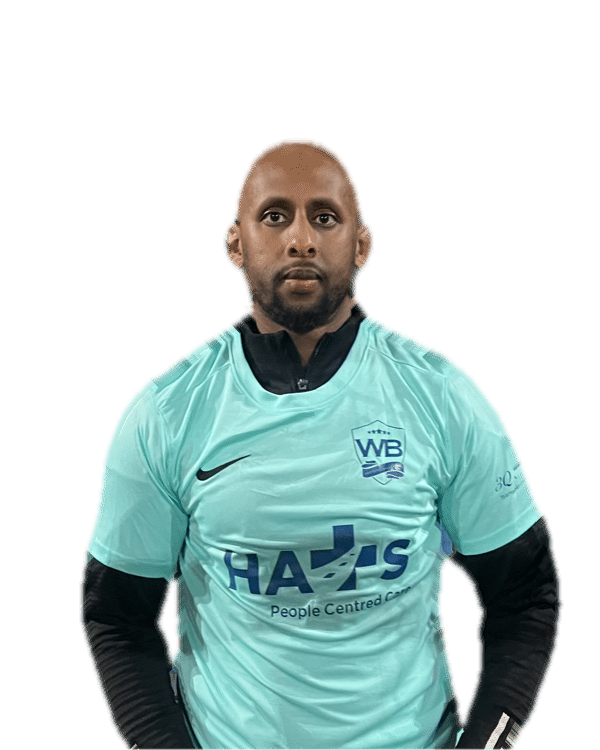
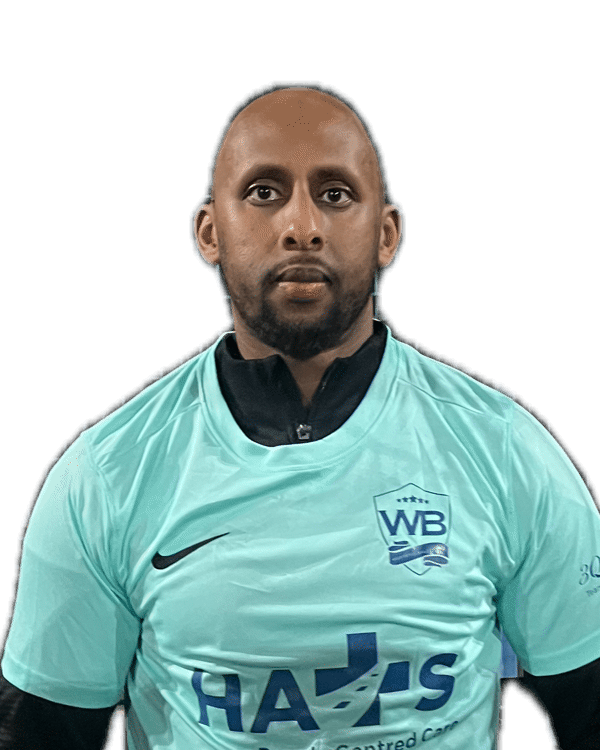
squad: back to original black design and photos

diff --git a/squad/squad.css b/squad/squad.css
@@ -1,6 +1,5 @@
 /* Squad page only. Uses the site tokens and fonts from assets/issue.css (loaded first). */
-.sq{max-width:var(--page);margin:0 auto;padding:0 var(--gutter) var(--s6);
-  --squad-card-bg:linear-gradient(90deg,#ECEDEF 0%,#C3C6CB 100%)} /* card and profile background; the one line to change for another theme */
+.sq{max-width:var(--page);margin:0 auto;padding:0 var(--gutter) var(--s6)}
 .sq-head{padding-top:var(--s4)}
 .sq-head h1{margin-top:var(--s2);font-family:var(--serif);font-weight:700;font-size:40px;line-height:1.04;letter-spacing:-.025em}
 .sq-head .standfirst{margin-top:var(--s2);max-width:36em}
@@ -12,16 +11,17 @@
 .sq-group h2 small{font-size:12px;color:var(--wb-text)}
 .sq-grid{list-style:none;display:grid;grid-template-columns:minmax(0,1fr);gap:var(--s2);margin-top:var(--s2)}
 
-/* ---------- card: light grey gradient, cut-out bottom-right with a soft shadow, name left, orange base line ---------- */
+/* ---------- card: charcoal gradient, cut-out bottom-right, name left, orange base line ---------- */
 .sq-card{position:relative;isolation:isolate;display:flex;align-items:flex-end;min-height:240px;overflow:hidden;padding:var(--s3) var(--s2) var(--s2);
-  background:var(--squad-card-bg);
-  border-bottom:3px solid var(--wb);color:#111;text-decoration:none;touch-action:manipulation;-webkit-tap-highlight-color:transparent}
-.sq-img{position:absolute;z-index:-2;right:4%;bottom:0;height:100%;width:auto;max-width:none;object-fit:contain;transform-origin:50% 100%;transition:transform .4s var(--ease);
-  filter:drop-shadow(8px 4px 14px rgba(0,0,0,.25))}
+  background:radial-gradient(120% 90% at 85% 100%,color-mix(in srgb,var(--wb) 16%,transparent),transparent 60%),linear-gradient(160deg,var(--ink-2) 0%,var(--ink) 55%,var(--bezel) 100%);
+  border-bottom:3px solid var(--wb);color:var(--on-ink);text-decoration:none;touch-action:manipulation;-webkit-tap-highlight-color:transparent}
+.sq-img{position:absolute;z-index:-2;right:-6%;bottom:0;height:100%;width:auto;max-width:none;transform-origin:50% 100%;transition:transform .4s var(--ease);
+  -webkit-mask-image:linear-gradient(to right,transparent 0,#000 22%);mask-image:linear-gradient(to right,transparent 0,#000 22%)} /* softens shirts cut by the photo's left edge */
+.sq-card::after{content:"";position:absolute;z-index:-1;left:0;right:0;bottom:0;height:45%;background:linear-gradient(to top,var(--bezel) 0%,color-mix(in srgb,var(--bezel) 70%,transparent) 35%,transparent 100%);pointer-events:none}
 .sq-txt{display:flex;flex-direction:column;max-width:60%}
-.sq-name{font-weight:800;font-stretch:87.5%;font-size:32px;line-height:.95;letter-spacing:-.01em;text-transform:uppercase;overflow-wrap:anywhere}
-.sq-pos{margin-top:var(--s1);font-size:12px;font-weight:800;font-stretch:87.5%;letter-spacing:.12em;text-transform:uppercase;color:var(--wb-text)}
-.sq-born{margin-top:var(--half);font-size:14px;line-height:1.3;color:#3C3C3C}
+.sq-name{font-weight:800;font-stretch:87.5%;font-size:32px;line-height:.95;letter-spacing:-.01em;text-transform:uppercase;overflow-wrap:anywhere;text-shadow:0 2px 12px rgba(0,0,0,.45)}
+.sq-pos{margin-top:var(--s1);font-size:12px;font-weight:800;font-stretch:87.5%;letter-spacing:.12em;text-transform:uppercase;color:var(--wb)}
+.sq-born{margin-top:var(--half);font-size:14px;line-height:1.3;color:var(--on-ink-2)}
 .sq-card:focus-visible{outline:3px solid var(--wb);outline-offset:3px}
 .sq-card:active .sq-img{transform:scale(1.02)}
 
@@ -29,14 +29,15 @@
 .sq-profile{padding-top:var(--s3)}
 .sq-back{display:inline-flex;align-items:center;min-height:44px;font-size:12px;font-weight:800;font-stretch:87.5%;letter-spacing:.12em;text-transform:uppercase;text-decoration:none;color:var(--wb-text)}
 .sq-hero{position:relative;isolation:isolate;display:grid;grid-template-columns:minmax(0,1fr) minmax(0,1fr);align-items:end;min-height:380px;margin:var(--s1) calc(var(--gutter) * -1) 0;overflow:hidden;
-  background:var(--squad-card-bg);
-  border-bottom:3px solid var(--wb);color:#111}
-.sq-hero-img{position:absolute;z-index:-2;right:4%;bottom:0;height:100%;width:auto;max-width:none;object-fit:contain;
-  filter:drop-shadow(8px 4px 14px rgba(0,0,0,.25))}
+  background:radial-gradient(90% 80% at 80% 100%,color-mix(in srgb,var(--wb) 20%,transparent),transparent 65%),linear-gradient(160deg,var(--ink-2) 0%,var(--ink) 55%,var(--bezel) 100%);
+  border-bottom:3px solid var(--wb);color:var(--on-ink)}
+.sq-hero::after{content:"";position:absolute;z-index:-1;left:0;right:0;bottom:0;height:40%;background:linear-gradient(to top,var(--bezel),transparent);pointer-events:none}
+.sq-hero-img{grid-column:2;grid-row:1;z-index:-2;justify-self:end;align-self:end;height:380px;width:auto;max-width:none;margin-right:-12%;
+  -webkit-mask-image:linear-gradient(to right,transparent 0,#000 18%);mask-image:linear-gradient(to right,transparent 0,#000 18%)}
 .sq-hero-txt{grid-column:1;grid-row:1;position:relative;z-index:1;padding:var(--s4) 0 var(--s3) var(--gutter);width:150%} /* the name may run over the photo */
-.sq-hero-kick{font-size:12px;font-weight:800;font-stretch:87.5%;letter-spacing:.12em;text-transform:uppercase;color:var(--wb-text)}
-.sq-hero h1{margin-top:var(--s1);font-weight:800;font-stretch:87.5%;font-size:clamp(40px,12vw,96px);line-height:.9;letter-spacing:-.015em;text-transform:uppercase;overflow-wrap:anywhere;outline:none}
-.sq-hero-born{margin-top:var(--s1);font-size:15px;color:#3C3C3C}
+.sq-hero-kick{font-size:12px;font-weight:800;font-stretch:87.5%;letter-spacing:.12em;text-transform:uppercase;color:var(--wb)}
+.sq-hero h1{margin-top:var(--s1);font-weight:800;font-stretch:87.5%;font-size:clamp(40px,12vw,96px);line-height:.9;letter-spacing:-.015em;text-transform:uppercase;overflow-wrap:anywhere;text-shadow:0 2px 16px rgba(0,0,0,.5);outline:none}
+.sq-hero-born{margin-top:var(--s1);font-size:15px;color:var(--on-ink-2)}
 .sq-tiles{display:grid;grid-template-columns:1fr 1fr;gap:var(--s1);margin-top:var(--s3)}
 .sq-tile{min-width:0;padding:var(--s2);background:var(--paper-2);border-top:4px solid var(--wb)}
 .sq-tile:nth-child(n+3){grid-column:1/-1} /* Signed for WB and Fun Fact get full rows, so a long fun fact reads as sentences, not a narrow column */
@@ -54,6 +55,7 @@
 @media (min-width:600px){
   .sq-grid{grid-template-columns:repeat(2,minmax(0,1fr))}
   .sq-hero{margin-left:0;margin-right:0;min-height:440px}
+  .sq-hero-img{height:440px;margin-right:0}
   .sq-hero-txt{padding-left:var(--s5)}
   .sq-tiles{grid-template-columns:repeat(3,minmax(0,1fr))} /* Position, Place of Birth, Signed for WB in one row; Fun Fact below */
   .sq-tile:nth-child(3){grid-column:auto}
@@ -63,6 +65,7 @@
   .sq-grid{grid-template-columns:repeat(3,minmax(0,1fr));gap:var(--s3)}
   .sq-card{min-height:300px}
   .sq-hero{min-height:520px}
+  .sq-hero-img{height:520px}
   .sq-tiles{gap:var(--s2)}
 }
 @media (prefers-reduced-motion:reduce){
